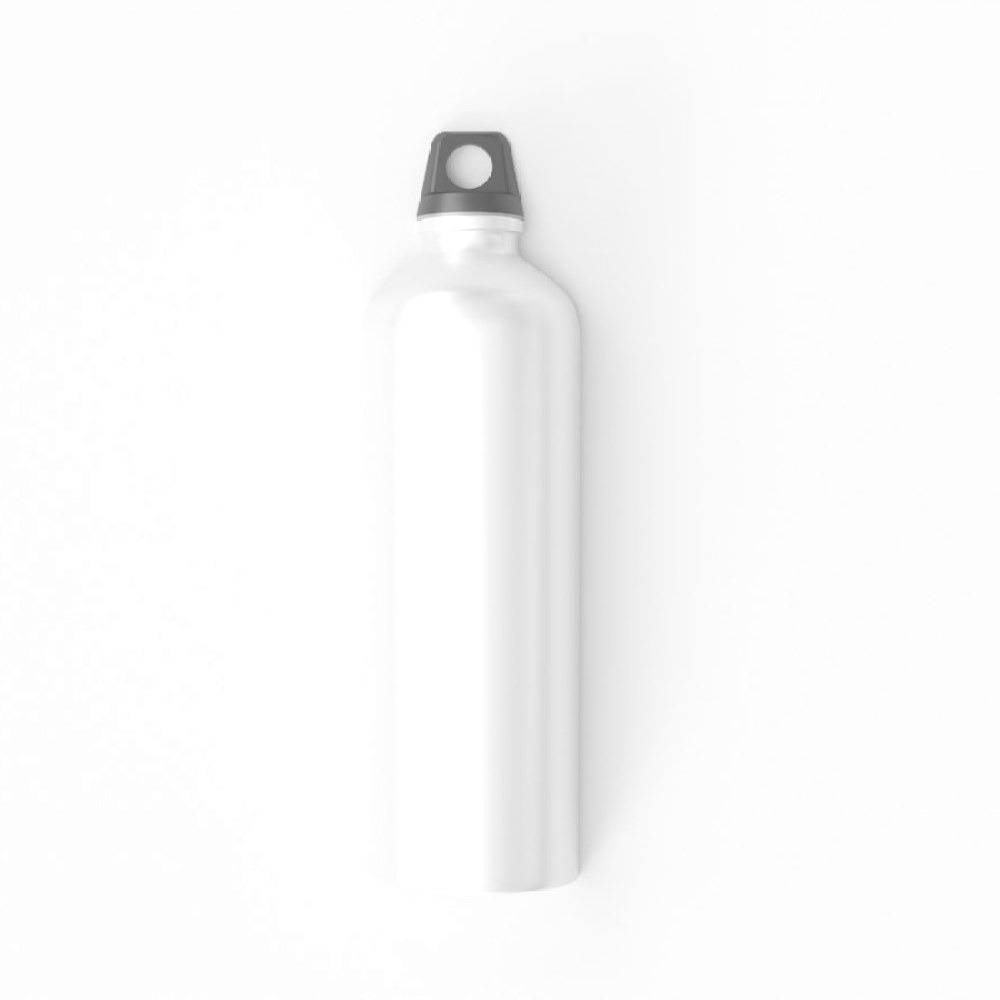
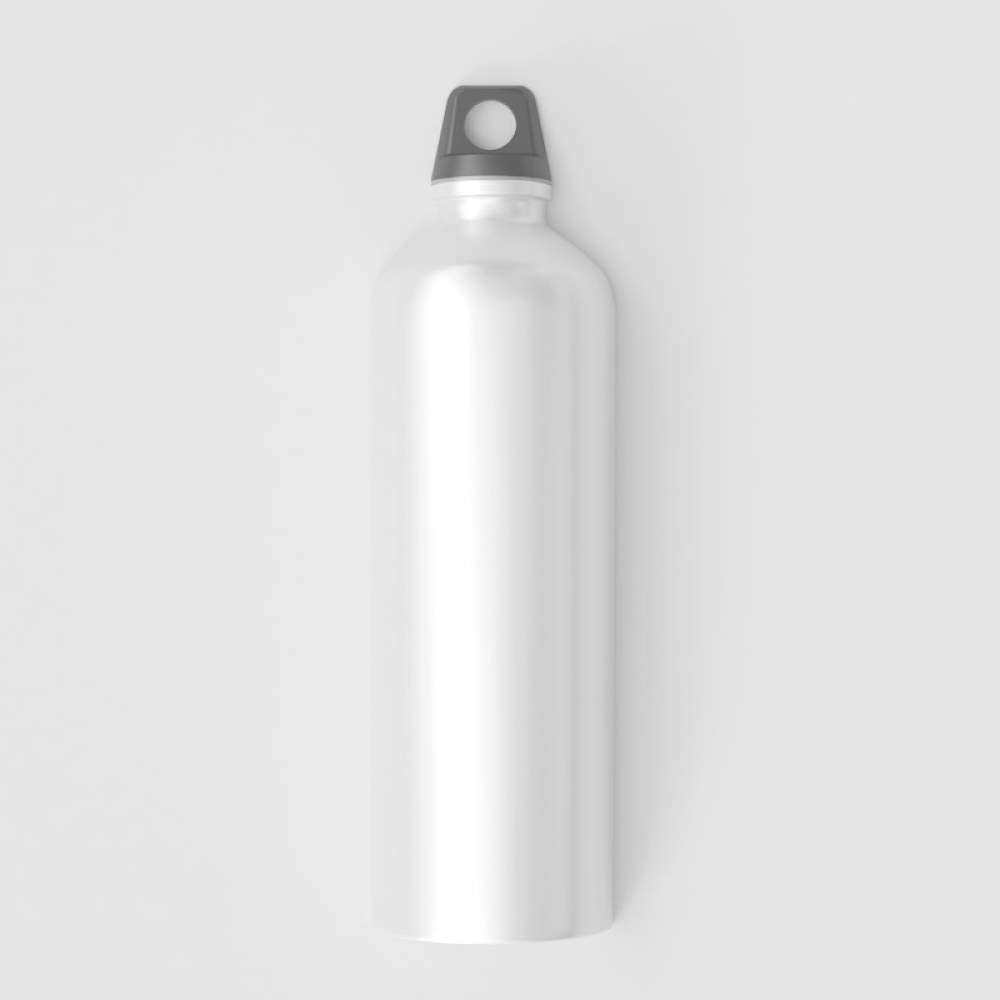
Design Studio: fix bottle mock-up mask, print area and default colour

Changed region(s): [[0.372, 0.0, 0.775, 1.0], [0.372, 0.31, 0.434, 0.93], [0.496, 0.248, 0.558, 0.341]]

diff --git a/src/lib/mockups.js b/src/lib/mockups.js
@@ -63,7 +63,7 @@ export const TEMPLATES = {
     base: () => '', overlay: () => ''
   },
   bottle: {
-    label: 'Water bottle', area: { x: 255, y: 185, w: 90, h: 280 }, palette: 'metal', colour: '#9ca3af',
+    label: 'Water bottle', area: { x: 262, y: 235, w: 96, h: 280 }, palette: 'metal', colour: '#ffffff',
     photo: '/mockups/bottle.jpg', mask: '/mockups/bottle-mask.png', shade: '/mockups/bottle-shade.jpg',
     base: () => '', overlay: () => ''
   },
